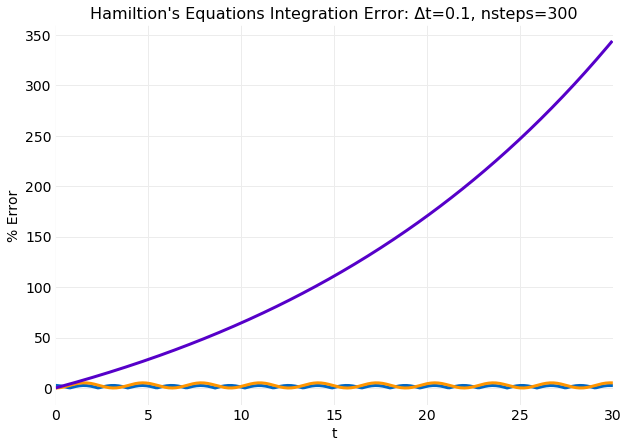
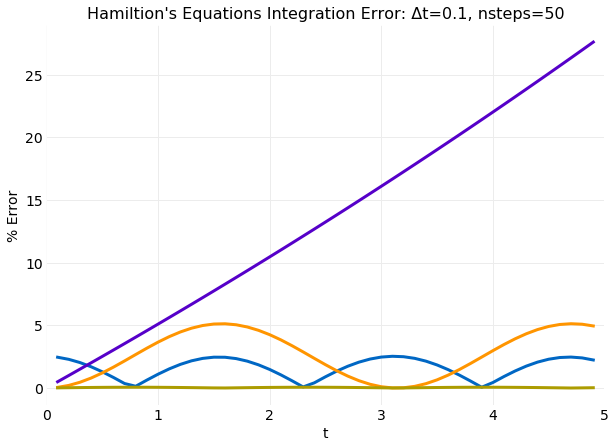
added momentum verlet examples

diff --git a/hydrogen_notebooks/mcmc/hamiltonian_monte_carlo/gaussian_distribution.py b/hydrogen_notebooks/mcmc/hamiltonian_monte_carlo/gaussian_distribution.py
@@ -62,6 +62,7 @@ def euler_cromer(p0, q0, nsteps, ε):
     return ps, qs
 
 # Leapfrog integration of Hamilton's equations
+# This is the leapfrog implementaion from AM207 https://am207.info/wiki/hmcexplore.html
 
 def leapfrog(p0, q0, nsteps, ε):
     ps = numpy.zeros(nsteps+1)
@@ -85,6 +86,27 @@ def leapfrog(p0, q0, nsteps, ε):
     ps[nsteps] = p
 
     return ps, qs
+
+def momentum_verlet(p0, q0, nsteps, ε):
+    ps = numpy.zeros(nsteps+1)
+    qs = numpy.zeros(nsteps+1)
+    ps[0] = p0
+    qs[0] = q0
+
+    p = p0
+    q = q0
+    ΔU = dUdq(q)
+
+    for i in range(nsteps):
+        p = p - ε*ΔU/2.0
+        q = q + ε*p
+        qs[i+1] = q
+        ΔU = dUdq(q)
+        p = p - ε*ΔU/2.0
+        ps[i+1] = p
+
+    return ps, qs
+
 
 # Hamiltonian Monte Carlo with leapfrog
 
@@ -190,15 +212,17 @@ def hamiltons_equations_integration_plot(kinetic_energy, potential_energy, conto
     axis.legend(bbox_to_anchor=(0.3, 0.85))
     config.save_post_asset(figure, "hamiltonian_monte_carlo", plot_name)
 
-def integration_error_plot(p0, q0, nsteps, ε):
+def integration_error_plot(p0, q0, nsteps, ε, plot_file):
     contour_value = p0**2+ q0**2
     p_leapfrog, q_leapfrog = leapfrog(p0, q0, nsteps, ε)
     p_euler_cromer, q_euler_cromer = euler_cromer(p0, q0, nsteps, ε)
     p_euler, q_euler = euler(p0, q0, nsteps, ε)
+    p_momentum_verlet, q_momentum_verlet = momentum_verlet(p0, q0, nsteps, ε)
 
     error_leapfrog = 100.0*numpy.abs(numpy.sqrt(p_leapfrog[1:-1]**2 + q_leapfrog[1:-1]**2) - numpy.sqrt(contour_value))/numpy.sqrt(contour_value)
     error_euler_cromer = 100.0*numpy.abs(numpy.sqrt(p_euler_cromer[1:-1]**2 + q_euler_cromer[1:-1]**2) - numpy.sqrt(2.0))/numpy.sqrt(2.0)
     error_euler = 100.0*numpy.abs(numpy.sqrt(p_euler[1:-1]**2 + q_euler[1:-1]**2) - numpy.sqrt(2.0))/numpy.sqrt(2.0)
+    error_momentum_verlet = 100.0*numpy.abs(numpy.sqrt(p_momentum_verlet[1:-1]**2 + q_momentum_verlet[1:-1]**2) - numpy.sqrt(2.0))/numpy.sqrt(2.0)
 
     t_plot = numpy.linspace(0.0, nsteps*ε, nsteps+1)
 
@@ -210,7 +234,8 @@ def integration_error_plot(p0, q0, nsteps, ε):
     axis.plot(t_plot[1:-1], error_leapfrog, label="Leapfrog")
     axis.plot(t_plot[1:-1], error_euler_cromer, label="Euler Cromer")
     axis.plot(t_plot[1:-1], error_euler, label="Euler")
-    config.save_post_asset(figure, "hamiltonian_monte_carlo", "hamiltons_equations_integration_error_comparision_01_5")
+    axis.plot(t_plot[1:-1], error_momentum_verlet, label="Momentum Verlet")
+    config.save_post_asset(figure, "hamiltonian_monte_carlo", plot_file)
     axis.legend(bbox_to_anchor=(0.35, 0.9))
 
 # %%
@@ -289,16 +314,6 @@ hamiltons_equations_integration_plot(K, U, [0.37], p, q, title, "hamiltons_equat
 
 # %%
 
-t = 15.0
-ε = 0.1
-nsteps = int(t/ε)
-
-p, q = leapfrog(-1.0, 1.0, nsteps, ε)
-title = f"Hamilton's Equations (Leap Frog Method): Δt={ε}, nsteps={nsteps}"
-hamiltons_equations_integration_plot(K, U, [0.37], p, q, title, "hamiltons_equations_integration_leapfrog_method_01_15")
-
-# %%
-
 t = 30.0
 ε = 0.1
 nsteps = int(t/ε)
@@ -333,7 +348,9 @@ t = 5.0
 ε = 0.1
 nsteps = int(t/ε)
 
-integration_error_plot(-1.0, 1.0, nsteps, ε)
+p, q = momentum_verlet(-1.0, 1.0, nsteps, ε)
+title = f"Hamilton's Equations (Momentum Verlet): Δt={ε}, nsteps={nsteps}"
+hamiltons_equations_integration_plot(K, U, [0.37], p, q, title, "hamiltons_equations_integration_momentum_verlet_method_01_5")
 
 # %%
 
@@ -341,4 +358,42 @@ t = 30.0
 ε = 0.1
 nsteps = int(t/ε)
 
-integration_error_plot(-1.0, 1.0, nsteps, ε)
+p, q = momentum_verlet(-1.0, 1.0, nsteps, ε)
+title = f"Hamilton's Equations (Momentum Verlet): Δt={ε}, nsteps={nsteps}"
+hamiltons_equations_integration_plot(K, U, [0.37], p, q, title, "hamiltons_equations_integration_momentum_verlet_method_01_30")
+
+# %%
+
+t = 5.0
+ε = 0.5
+nsteps = int(t/ε)
+
+p, q = momentum_verlet(-1.0, 1.0, nsteps, ε)
+title = f"Hamilton's Equations (Momentum Verlet): Δt={ε}, nsteps={nsteps}"
+hamiltons_equations_integration_plot(K, U, [0.37], p, q, title, "hamiltons_equations_integration_momentum_verlet_method_05_5")
+
+# %%
+
+t = 30.0
+ε = 0.5
+nsteps = int(t/ε)
+
+p, q = momentum_verlet(-1.0, 1.0, nsteps, ε)
+title = f"Hamilton's Equations (Momentum Verlet): Δt={ε}, nsteps={nsteps}"
+hamiltons_equations_integration_plot(K, U, [0.37], p, q, title, "hamiltons_equations_integration_momentum_verlet_method_05_30")
+
+# %%
+
+t = 5.0
+ε = 0.1
+nsteps = int(t/ε)
+
+integration_error_plot(-1.0, 1.0, nsteps, ε, "hamiltons_equations_integration_error_comparision_01_5")
+
+# %%
+
+t = 30.0
+ε = 0.1
+nsteps = int(t/ε)
+
+integration_error_plot(-1.0, 1.0, nsteps, ε, "hamiltons_equations_integration_error_comparision_01_30")
